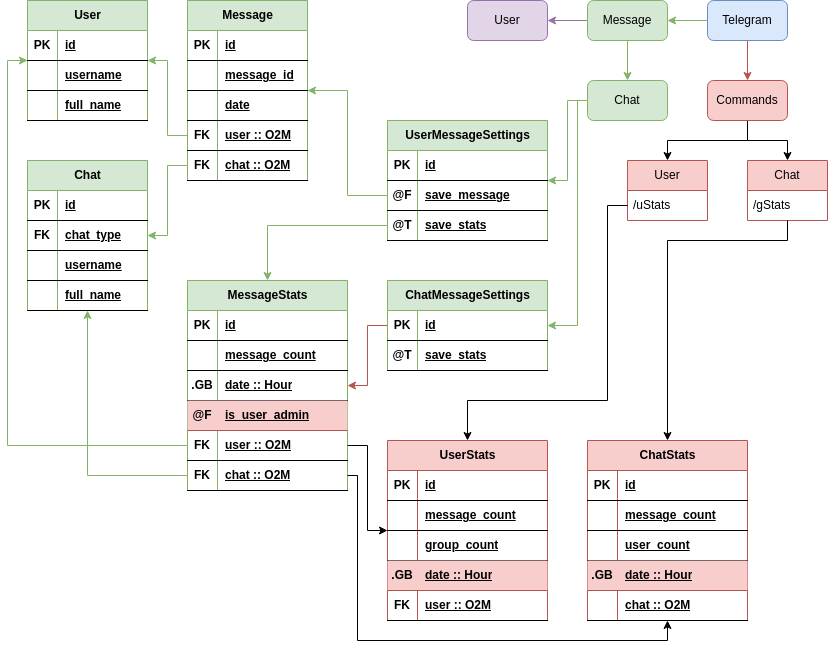
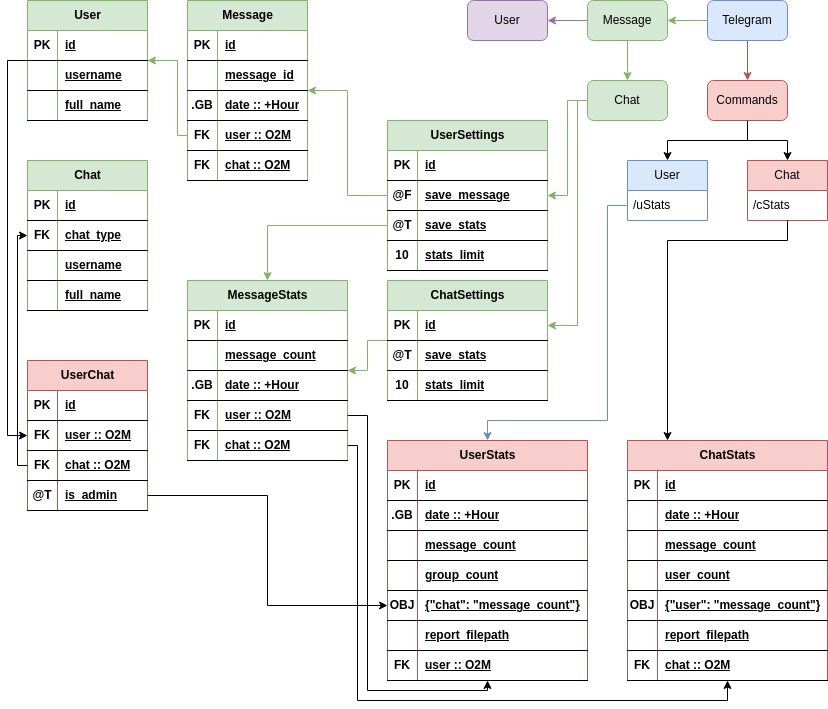
Update Diagram

diff --git a/README.md b/README.md
@@ -6,8 +6,17 @@ Interface:
 
 <div align="center">
   <img src="./static/readme/TgBot.png" />
+  <img src="./static/readme/UserStats.jpg" />
 </div>
 
 
 #### TODO
-- [ ] Move `MessageStats.is_user_admin` into `UserChats`
+- [x] Move `MessageStats.is_user_admin` into `UserChats`
+  - [x] Create Table
+  - [ ] Add user info
+- [ ] Generate User Stats
+  - [ ] Simple Plot
+    - [x] Generate pic
+    - [ ] Cache Generated pic filepath
+      - [ ] Cache will be updated for next the `hour`
+    - [ ] Set `stats_limit`
